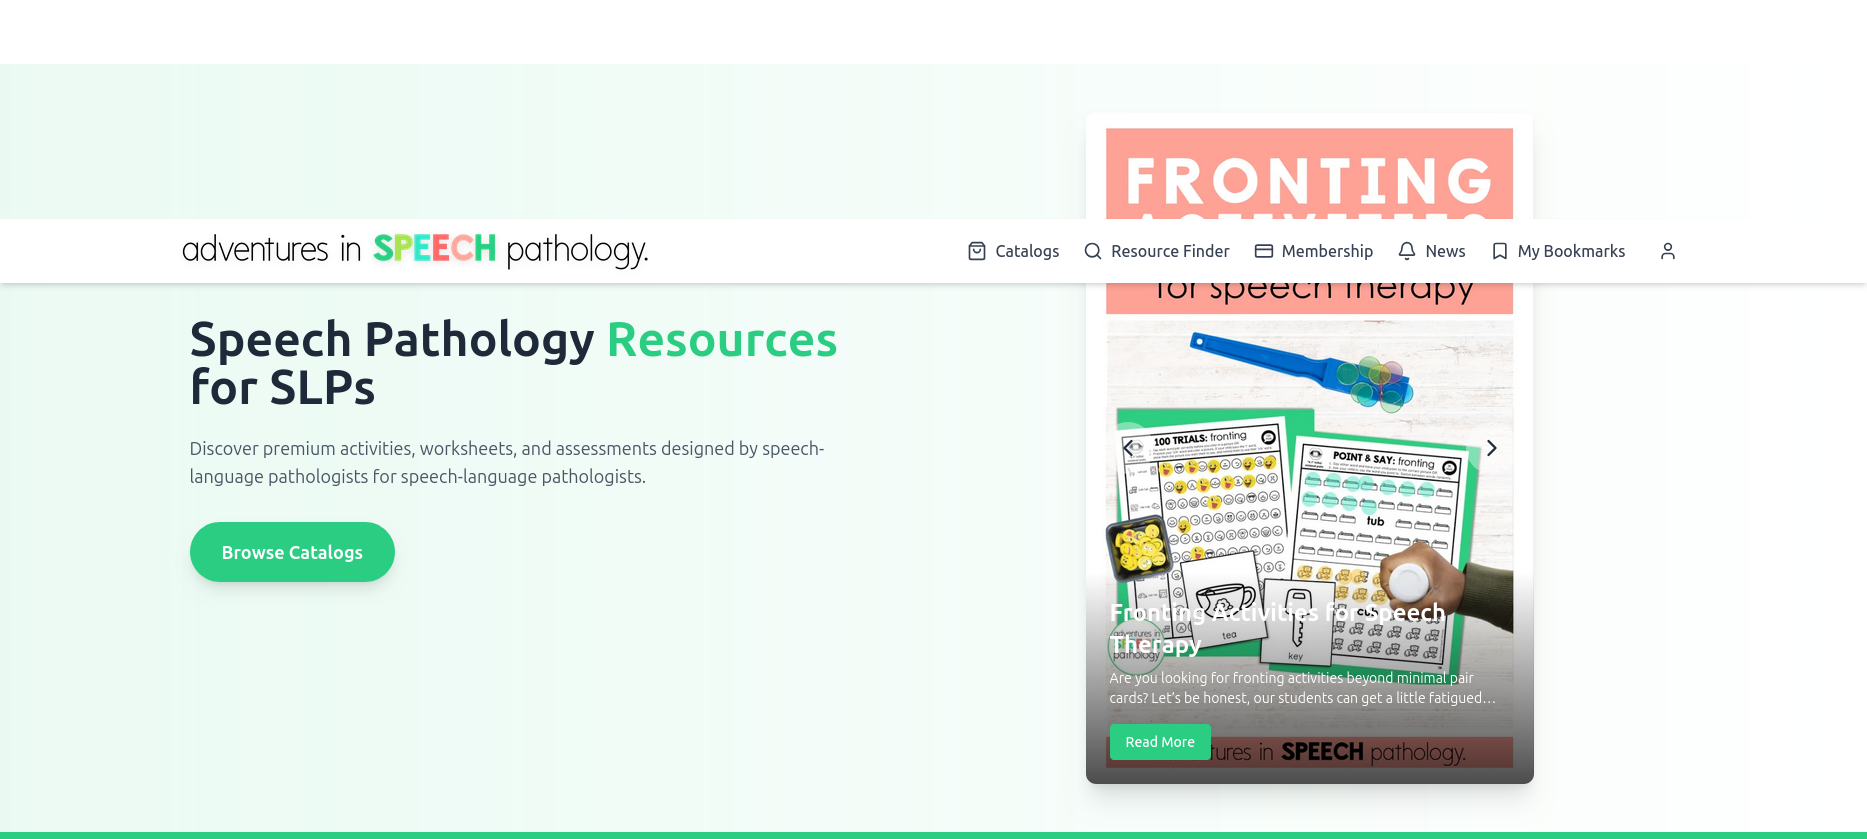
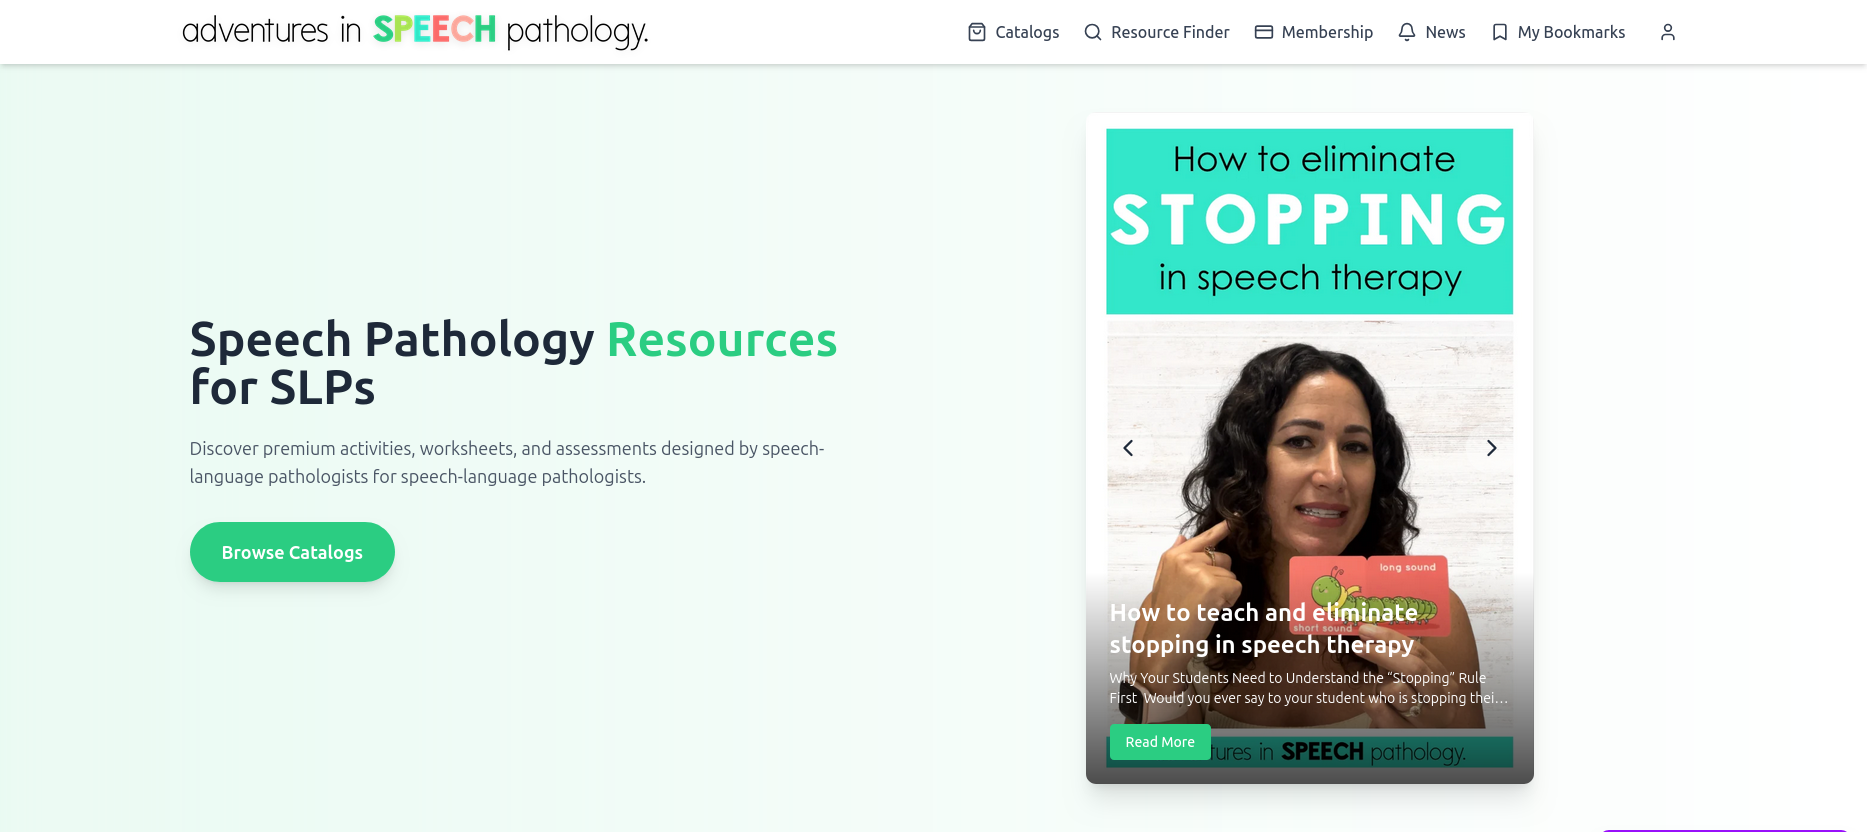
done

diff --git a/src/data/index.js b/src/data/index.js
@@ -54,11 +54,10 @@ const experiences = [
     company_name: "Jezweb",
     date: "2023 - 2026",
     details: [
-      "Created design systems using <span style='color: white;'>CSS Modules</span> and <span style='color: white;'>Tailwind CSS</span>",
-      "Improved conversion rates by 30% through <span style='color: white;'>A/B testing</span> and user flow optimization",
-      "Developed <span style='color: white;'>WCAG 2.1</span> compliant accessible components",
-      "Collaborated with developers to implement <span style='color: white;'>motion design</span> using Framer Motion",
-      "Integrated <span style='color: white;'>Cursor AI</span> and <span style='color: white;'>Claude AI</span> for intelligent code generation, refactoring, and automated component development",
+      "Design systems and UI kits in <span style='color: white;'>HTML</span>, <span style='color: white;'>CSS</span>, and <span style='color: white;'>JavaScript</span>, built with <span style='color: white;'>CSS Modules</span> and <span style='color: white;'>Tailwind CSS</span> for consistent, maintainable styling",
+      "Shipped <span style='color: white;'>WCAG 2.1</span> accessible components; worked with developers on <span style='color: white;'>React</span> / <span style='color: white;'>JSX</span> implementations and design handoff",
+      "Ran <span style='color: white;'>A/B tests</span>, tightened user flows, and improved conversion rates by ~30%",
+      "Motion and micro-interactions in <span style='color: white;'>Framer Motion</span>; used <span style='color: white;'>Cursor AI</span> and <span style='color: white;'>Claude AI</span> to speed up layout, refactors, and component work",
     ],
   },
   {
@@ -66,11 +65,10 @@ const experiences = [
     company_name: "Exercise For Injuries",
     date: "2024 - 2025",
     details: [
-      "Developed responsive web applications using <span style='color: white;'>React, Next.js, and TypeScript</span> with 95+ Lighthouse performance scores",
-      "Implemented <span style='color: white;'>Redux Toolkit</span> for state management and <span style='color: white;'>React Query</span> for server-state synchronization",
-      "Integrated <span style='color: white;'>RESTful APIs</span> and optimized database queries reducing load times by 40%",
-      "Established <span style='color: white;'>CI/CD pipelines</span> using GitHub Actions and Docker containers",
-      "Conducted code reviews and mentored junior developers in <span style='color: white;'>clean architecture</span> principles",
+      "Built responsive apps with <span style='color: white;'>React</span>, <span style='color: white;'>Next.js</span>, <span style='color: white;'>TypeScript</span>, and modern <span style='color: white;'>JavaScript</span> (<span style='color: white;'>ES6+</span>); 95+ Lighthouse scores on shipped pages",
+      "State and data layer: <span style='color: white;'>Redux Toolkit</span>, <span style='color: white;'>React Query</span>, and <span style='color: white;'>REST</span> APIs; optimized queries and payloads to cut load times ~40%",
+      "Tooling and delivery: <span style='color: white;'>Git</span>, <span style='color: white;'>Node.js</span> ecosystem, <span style='color: white;'>CI/CD</span> with GitHub Actions and <span style='color: white;'>Docker</span> for repeatable builds",
+      "Code reviews and mentoring on <span style='color: white;'>clean architecture</span>, patterns, and performance for the rest of the team",
     ],
   },
   {
@@ -78,11 +76,10 @@ const experiences = [
     company_name: "Self Employed",
     date: "2023-2024",
     details: [
-      "Built 15+ production applications using <span style='color: white;'>React, Tailwind CSS, and JavaScript</span>",
-      "Integrated <span style='color: white;'>Firebase</span> authentication and realtime databases for client projects",
-      "Implemented <span style='color: white;'>REST API</span> integrations with Axios and error handling",
-      "Optimized web performance achieving <span style='color: white;'>90+ Core Web Vitals</span> scores",
-      "Configured <span style='color: white;'>Webpack</span> builds and automated deployments using Netlify CI/CD",
+      "Delivered 15+ production sites and apps using <span style='color: white;'>React</span>, <span style='color: white;'>JavaScript</span> (<span style='color: white;'>ES6+</span>), <span style='color: white;'>HTML</span>, <span style='color: white;'>CSS</span>, and <span style='color: white;'>Tailwind CSS</span> for fast, responsive UIs",
+      "Backend-as-a-service with <span style='color: white;'>Firebase</span> (auth, Firestore / realtime listeners); <span style='color: white;'>REST</span> integrations using <span style='color: white;'>Axios</span> and solid error handling",
+      "Performance work for 90+ Core Web Vitals; bundling with <span style='color: white;'>Webpack</span> and <span style='color: white;'>Vite</span> depending on project",
+      "Workflow: <span style='color: white;'>npm</span>, <span style='color: white;'>Git</span>, and automated deploys on <span style='color: white;'>Netlify</span> with CI/CD hooks",
     ],
   },
 ];
@@ -116,20 +113,13 @@ const additionalProjects = [
     name: "Adventures in Speech Pathology",
     description: `Educational resources by SLPs for SLPs—worksheets, activities, assessments. Catalogs, resource finder, membership, bookmarks for therapy-ready materials.`,
     image: adventuresInSpeechPathology,
-    href: "https://adventuresinspeechpathology.com/",
+    href: "https://therapytools.netlify.app/",
   },
   {
-    name: "Card Matcher",
-    description:
-      "Memory matching game—React, Vite, Context API, CSS transforms, Local Storage scores, CSS Grid. Difficulty levels; deployed on Netlify.",
-    image: cardMatch,
-    href: "https://card-matcher-game.netlify.app/",
-  },
-  {
-    name: "Element Clash",
-    description: `Element battle game—React, Vite, custom hooks, Framer Motion battles, Firebase stats. Netlify deployment.`,
-    image: elementClash,
-    href: "https://element-clasher.netlify.app/",
+    name: "Rave Remedy",
+    description: `E-commerce landing for recovery supplements—bold branding, hero imagery, shop navigation, cart. Desktop and mobile.`,
+    image: raveRemedy,
+    href: "https://raveremedy.com/",
   },
   {
     name: "Athena Cleaning",
@@ -144,10 +134,17 @@ const additionalProjects = [
     href: "https://money-bee.netlify.app/",
   },
   {
-    name: "Rave Remedy",
-    description: `E-commerce landing for recovery supplements—bold branding, hero imagery, shop navigation, cart. Desktop and mobile.`,
-    image: raveRemedy,
-    href: "https://raveremedy.com/",
+    name: "Card Matcher",
+    description:
+      "Memory matching game—React, Vite, Context API, CSS transforms, Local Storage scores, CSS Grid. Difficulty levels; deployed on Netlify.",
+    image: cardMatch,
+    href: "https://card-matcher-game.netlify.app/",
+  },
+  {
+    name: "Element Clash",
+    description: `Element battle game—React, Vite, custom hooks, Framer Motion battles, Firebase stats. Netlify deployment.`,
+    image: elementClash,
+    href: "https://element-clasher.netlify.app/",
   },
 ];
 
